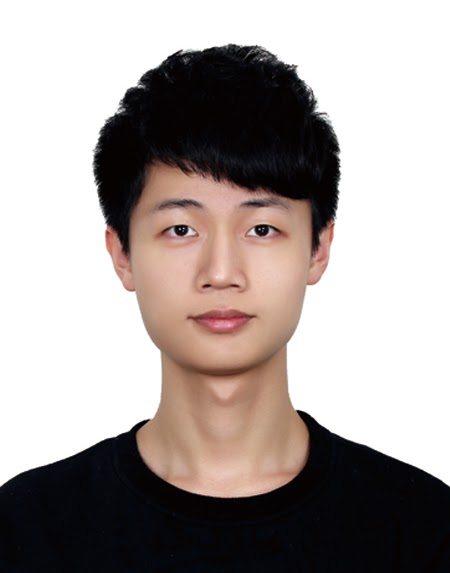
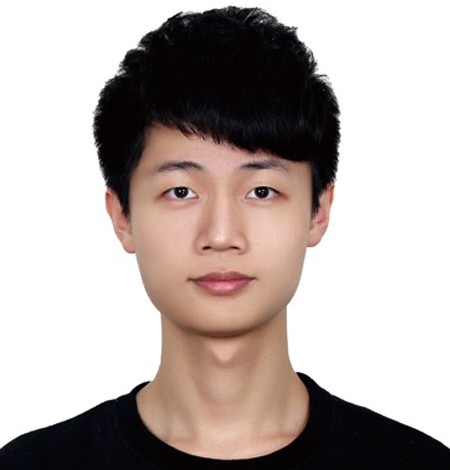
Add Kunjun Li

Changed region(s): [[0.0, 0.3574, 1.0, 0.983], [0.1867, 0.0, 0.7778, 0.3574], [0.3111, 0.2383, 0.6844, 0.4468]]

diff --git a/people.html b/people.html
@@ -251,6 +251,22 @@
                     </div>
                 </div>
 
+                <div class="people-student col-sm-2">
+                    <a href="https://kunjun-li.github.io/" target="_blank">
+                        <img class="img-circle" src="images/avatars/kunjun_li.png" alt="" width="100%">
+                    </a>
+                    <div class="bio-text">
+                        <h5>Kunjun Li</h5>
+                        <h7>Undergrad Student</h7>
+                        <h7>National University of Singapore</h7>
+                        <h6 class="text-muted">kunjun [at] uw.edu</h6>
+                        <p>
+                            <span class="tag tag-pill tag-info">Efficient Deep Learning</span>
+                            <span class="tag tag-pill tag-info">Computer Vision</span>
+                        </p>
+                    </div>
+                </div>
+
 
             </div>
 
